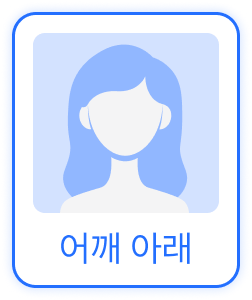
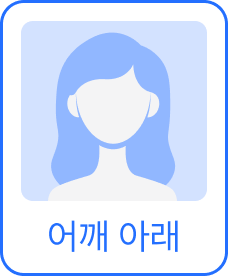
feat: 머리 기장 선택 값 구현

diff --git a/src/views/ApplicationPage/components/DefaultInfo.tsx b/src/views/ApplicationPage/components/DefaultInfo.tsx
@@ -1,3 +1,4 @@
+import { useState } from 'react';
 import { styled } from 'styled-components';
 
 import { IcEssential } from '../../@common/assets/icons';
@@ -8,7 +9,7 @@ import mediumSelected from '../../@common/assets/images/btn_hair2_selected.png';
 import longDefault from '../../@common/assets/images/btn_hair3_default.png';
 import longSelected from '../../@common/assets/images/btn_hair3_selected.png';
 import rapunzelDefault from '../../@common/assets/images/btn_hair4_default.png';
-import rapunzelSelectecde from '../../@common/assets/images/btn_hair4_selected.png';
+import rapunzelSelected from '../../@common/assets/images/btn_hair4_selected.png';
 import Button from '../../@common/components/Button';
 import Header from '../../@common/components/Header';
 import ProgressBar from '../../@common/components/ProgressBar';
@@ -16,6 +17,10 @@ import ProgressBar from '../../@common/components/ProgressBar';
 import StyleButton from './StyleButton';
 
 const DefaultInfo = () => {
+  const [hairLength, setHairLength] = useState('default');
+  const [preferStyles, setPreferStyles] = useState([]);
+  const [activateBtn, isActivateBtn] = useState(false);
+
   const moveNext = () => {};
 
   return (
@@ -31,21 +36,37 @@ const DefaultInfo = () => {
             <span>현재 머리 기장을 선택해주세요</span>
           </S.Title>
           <S.HairImgBox>
-            <input type="radio" id="숏" name="숏" />
-            <S.HairType htmlFor="숏">
-              <img src={shortDefault} alt="숏" />
+            <S.HairTypeInput type="radio" id="숏" name="hairtype" />
+            <S.HairType
+              htmlFor="숏"
+              onClick={() => {
+                setHairLength('숏');
+              }}>
+              <img src={hairLength === '숏' ? shortSelected : shortDefault} alt="숏" />
             </S.HairType>
-            <input type="radio" id="단발" name="단발" />
-            <S.HairType htmlFor="단발">
-              <img src={mediumDefault} alt="단발" />
+            <S.HairTypeInput type="radio" id="단발" name="hairtype" />
+            <S.HairType
+              htmlFor="단발"
+              onClick={() => {
+                setHairLength('단발');
+              }}>
+              <img src={hairLength === '단발' ? mediumSelected : mediumDefault} alt="단발" />
             </S.HairType>
-            <input type="radio" id="어깨 아래" name="어깨 아래" />
-            <S.HairType htmlFor="어깨 아래">
-              <img src={longDefault} alt="숏" />
+            <S.HairTypeInput type="radio" id="어깨 아래" name="hairtype" />
+            <S.HairType
+              htmlFor="어깨 아래"
+              onClick={() => {
+                setHairLength('어깨 아래');
+              }}>
+              <img src={hairLength === '어깨 아래' ? longSelected : longDefault} alt="어깨 아래" />
             </S.HairType>
-            <input type="radio" id="허리 아래" name="허리 아래" />
-            <S.HairType htmlFor="허리 아래">
-              <img src={rapunzelDefault} alt="허리 아래" />
+            <S.HairTypeInput type="radio" id="허리 아래" name="hairtype" />
+            <S.HairType
+              htmlFor="허리 아래"
+              onClick={() => {
+                setHairLength('허리 아래');
+              }}>
+              <img src={hairLength === '허리 아래' ? rapunzelSelected : rapunzelDefault} alt="허리 아래" />
             </S.HairType>
           </S.HairImgBox>
         </S.HairLengthSection>
@@ -154,9 +175,13 @@ const S = {
     width: 100%;
     height: 9.2rem;
     margin: 2rem 0 2.8rem;
+  `,
 
-    & > input {
-      display: none;
+  HairTypeInput: styled.input`
+    display: none;
+
+    &:checked + label {
+      box-shadow: ${({ theme }) => theme.effects.shadow3};
     }
   `,
 
@@ -164,6 +189,8 @@ const S = {
     width: 100%;
     height: 100%;
     border-radius: 8px;
+
+    cursor: pointer;
 
     & > img {
       width: 100%;
